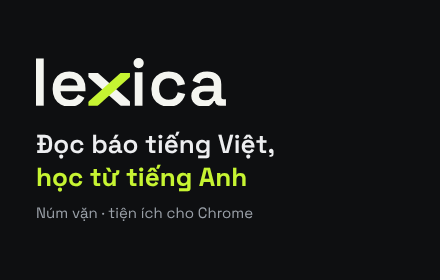
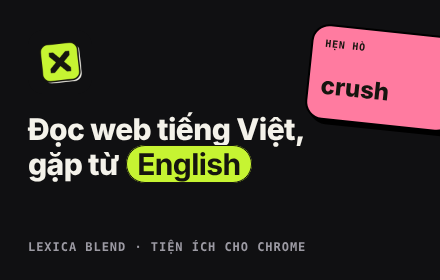
Lexica Blend extension: direction B look and new store images (#141)
- Replaced words are lime stickers (as in the app); the meaning card is a
  hard dark card with a flat shadow; the popup uses ink for the chosen
  option and a lime toggle.
- Store images now say Blend (not Núm vặn) and are drawn by
  extension/store/make.mjs from the extension's own content.css.

Claude-Session: https://claude.ai/code/session_01Rbu4fXPhnbvST1BizP5zXE

diff --git a/apps/lexica/extension/src/popup.html b/apps/lexica/extension/src/popup.html
@@ -1,15 +1,17 @@
 <!doctype html><html lang="vi"><head><meta charset="utf-8"><style>
-body{margin:0;width:280px;background:#0E0F11;color:#EDEEF0;font:14px/1.45 system-ui,sans-serif;padding:14px}
-h1{font-size:15px;margin:0 0 10px}h1 span{color:#C6F432}
-.lbl{margin:12px 0 6px;color:#9AA0A8;font-size:12px}
-.seg{display:flex;gap:6px}.seg button{flex:1;padding:7px 0;border-radius:8px;border:1px solid #26282D;background:none;color:#C4C6CB;font:inherit;font-size:13px;cursor:pointer}
-.seg button.on{border-color:#C6F432;color:#C6F432}
-#toggle{width:100%;padding:9px;border-radius:10px;border:0;font:inherit;font-weight:600;cursor:pointer;background:#C6F432;color:#0E0F11}
-#toggle.off{background:#26282D;color:#EDEEF0}#toggle:disabled{opacity:.4;cursor:default}
-.muted{color:#9AA0A8;font-size:12px}.warn{color:#F5B942;font-size:12px}
-label{display:flex;gap:8px;align-items:center;font-size:13px;margin-top:10px;color:#C4C6CB}
-ul{list-style:none;margin:4px 0 0;padding:0}li{display:flex;justify-content:space-between;align-items:center;font-size:12px;color:#C4C6CB;padding:2px 0}
-li button{background:none;border:0;color:#9AA0A8;cursor:pointer}
+body{margin:0;width:290px;background:#101012;color:#F4F2EA;font:14px/1.45 system-ui,-apple-system,'Segoe UI',sans-serif;padding:16px}
+h1{font-size:18px;font-weight:800;letter-spacing:-.01em;margin:0 0 8px;display:flex;align-items:center;gap:8px}
+h1 span{background:#C6F432;color:#16150F;border:1.5px solid #000;border-radius:999px;padding:0 8px;font-size:13px}
+.lbl{margin:14px 0 6px;color:#9C9AA3;font:700 11px ui-monospace,monospace;letter-spacing:.08em;text-transform:uppercase}
+.seg{display:flex;gap:6px}.seg button{flex:1;padding:7px 0;border-radius:10px;border:1.5px solid #2C2C33;background:#1B1B1F;color:#D4D2CA;font:inherit;font-size:13px;font-weight:700;cursor:pointer;white-space:nowrap}
+.seg button.on{background:#F4F2EA;border-color:#F4F2EA;color:#101012}
+#toggle{width:100%;padding:10px;border-radius:14px;border:2px solid #000;font:inherit;font-weight:800;cursor:pointer;background:#C6F432;color:#16150F;box-shadow:3px 3px 0 #000}
+#toggle:active{transform:translate(2px,2px);box-shadow:1px 1px 0 #000}
+#toggle.off{background:#1B1B1F;color:#F4F2EA;border-color:#2C2C33;box-shadow:none}#toggle:disabled{opacity:.4;cursor:default}
+.muted{color:#9C9AA3;font-size:12px}.warn{color:#F2C230;font-size:12px}
+label{display:flex;gap:8px;align-items:center;font-size:13px;margin-top:12px;color:#D4D2CA}
+ul{list-style:none;margin:4px 0 0;padding:0}li{display:flex;justify-content:space-between;align-items:center;font-size:12px;color:#D4D2CA;padding:3px 0}
+li button{background:none;border:0;color:#9C9AA3;cursor:pointer}
 </style></head><body>
 <h1>Lexica <span>Blend</span></h1>
 <div class="muted" id="host"></div>

diff --git a/apps/lexica/extension/src/content.css b/apps/lexica/extension/src/content.css
@@ -1,11 +1,10 @@
-.lx-dial{color:#5a7d00;background:rgba(198,244,50,.28);border-radius:3px;padding:0 2px;cursor:pointer;font-weight:600;text-decoration:none}
-@media (prefers-color-scheme:dark){.lx-dial{color:#C6F432;background:rgba(198,244,50,.14)}}
-.lx-tip{position:absolute;z-index:2147483647;width:300px;box-sizing:border-box;background:#16171A;color:#EDEEF0;border:1px solid #26282D;border-radius:12px;padding:10px 12px;font:14px/1.45 system-ui,sans-serif;box-shadow:0 10px 30px rgba(0,0,0,.35)}
-.lx-tip b{font-size:17px}.lx-tip .ipa{color:#9AA0A8;font-family:ui-monospace,monospace;margin-left:6px}.lx-tip .vi{margin-top:4px;color:#C4C6CB}.lx-tip .hint{margin-top:2px;color:#9AA0A8}
+.lx-dial{color:#16150F;background:#C6F432;border:1.5px solid #16150F;border-radius:999px;padding:0 .35em;margin:0 1px;cursor:pointer;font-weight:700;text-decoration:none;-webkit-box-decoration-break:clone;box-decoration-break:clone}
+.lx-dial.lx-due{box-shadow:2px 2px 0 #16150F}
+.lx-dial.lx-hl{color:inherit;background:none;border:0;border-radius:0;padding:0;margin:0;font-weight:inherit;box-shadow:none;text-decoration:underline dotted #8fb800 2px;text-underline-offset:3px}
+.lx-tip{position:absolute;z-index:2147483647;width:300px;box-sizing:border-box;background:#1B1B1F;color:#F4F2EA;border:2px solid #000;border-radius:18px;padding:12px 14px;font:14px/1.45 system-ui,-apple-system,'Segoe UI',sans-serif;box-shadow:3px 3px 0 #000}
+.lx-tip b{font-size:19px;font-weight:800;letter-spacing:-.01em}.lx-tip .ipa{color:#9C9AA3;font-family:ui-monospace,monospace;margin-left:6px}.lx-tip .vi{margin-top:4px;color:#D4D2CA}.lx-tip .hint{margin-top:2px;color:#9C9AA3}
 .lx-tip button{background:none;border:0;color:#C6F432;cursor:pointer;font-size:16px;margin-left:6px}
-.lx-dial.lx-due{outline:1px dashed rgba(198,244,50,.7)}
-.lx-dial.lx-hl{color:inherit;background:none;font-weight:inherit;text-decoration:underline dotted #8fb800 2px;text-underline-offset:3px}
-.lx-tip .acts{display:flex;white-space:nowrap;align-items:center;gap:6px;margin-top:8px;padding-top:8px;border-top:1px solid #26282D}
+.lx-tip .acts{display:flex;white-space:nowrap;align-items:center;gap:6px;margin-top:10px;padding-top:10px;border-top:1px solid #2C2C33}
 .lx-tip .acts .sp{flex:1}.lx-tip .acts .hint{margin:0;font-size:12px}
-.lx-tip .acts button{margin:0;font-size:13px;color:#EDEEF0;border:1px solid #26282D;border-radius:8px;padding:3px 8px}
-.lx-tip .acts button.on{border-color:#C6F432}
+.lx-tip .acts button{margin:0;font-size:13px;font-weight:700;color:#F4F2EA;border:1.5px solid #2C2C33;border-radius:10px;padding:3px 9px}
+.lx-tip .acts button.on{background:#F4F2EA;color:#101012;border-color:#F4F2EA}

diff --git a/apps/lexica/extension/STORE.md b/apps/lexica/extension/STORE.md
@@ -40,6 +40,7 @@ Từ bản 0.3, tiện ích **không xin quyền đọc mọi trang lúc cài**.
 - Icon 128×128: `extension/dist/icon-128.png`.
 - Ảnh chụp 1280×800: `store/screenshot-1280x800.png`. Đây là một trang demo tự viết, không phải trang báo thật, để không dùng thương hiệu của báo khác.
 - Ảnh quảng bá nhỏ 440×280: `store/promo-440x280.png`.
+- Dựng lại cả hai ảnh (sau khi đổi giao diện): trong `apps/lexica` chạy `node extension/store/make.mjs`. Ảnh dùng đúng `src/content.css` của tiện ích.
 
 ## Rủi ro khi duyệt
 - Đã dùng quyền theo từng trang nên rủi ro thấp hơn. Vẫn có thể bị hỏi vì `optional_host_permissions` rộng. Trả lời: chỉ xin khi người dùng bấm, cho đúng trang đó.
